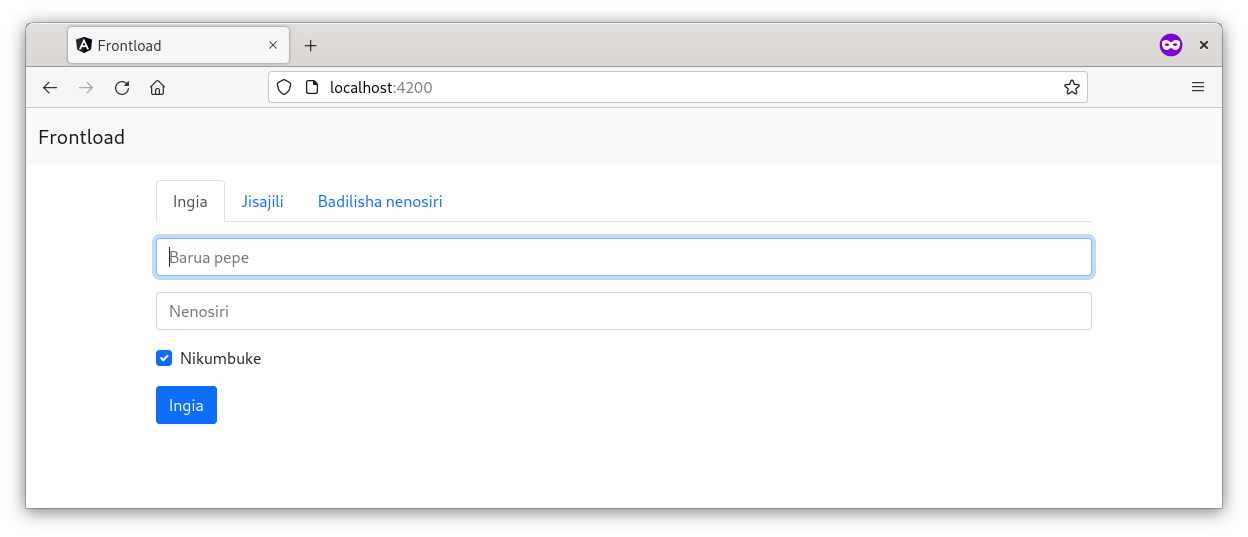
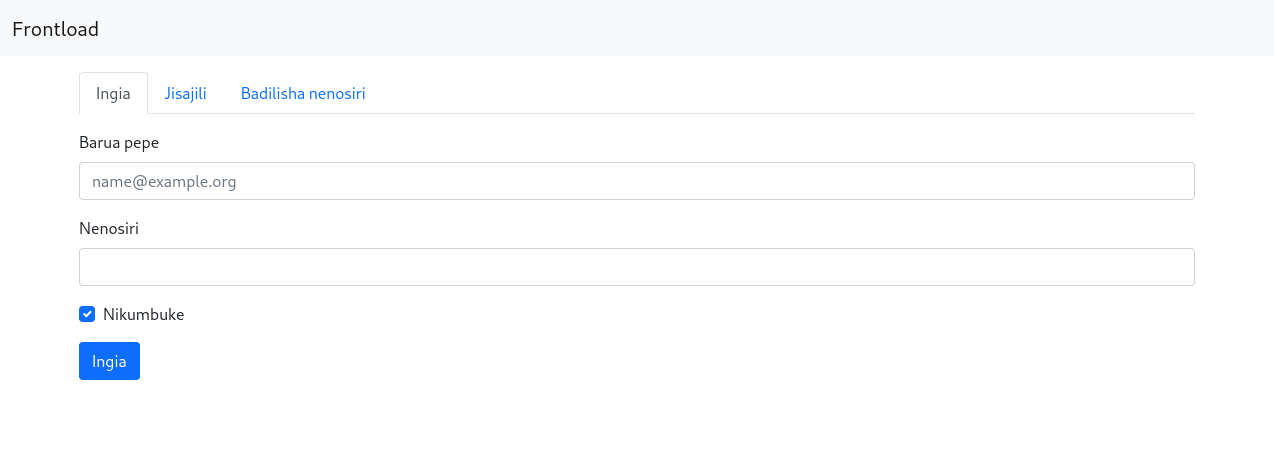
UI improvements (form fields)

diff --git a/src/app/components/password-form/password-form.component.html b/src/app/components/password-form/password-form.component.html
@@ -1,9 +1,11 @@
 <div #formElement class="form-group" *ngIf="password">
-    <input *ngIf="enforceReqs" [name]="controlName" [formControl]="password" type="password" class="form-control" class="form-control"
-        [placeholder]="placeHolder" [disabled]="disabled" aria-describedby="passwordHelp" required minlength="8">
-    <small *ngIf="enforceReqs" id="passwordHelp" class="form-text text-muted"i18n>Minimum 8 characters</small>
-    <input *ngIf="!enforceReqs" [name]="controlName" [formControl]="password" type="password" class="form-control" class="form-control"
-        [placeholder]="placeHolder" [disabled]="disabled" required>
+    <label for="passwordInput" class="form-label" i18n>{{label}}</label>
+    <input id="passwordInput" *ngIf="enforceReqs" [name]="controlName" [formControl]="password" type="password"
+        class="form-control" class="form-control" [disabled]="disabled" aria-describedby="passwordHelp" required
+        minlength="8">
+    <small *ngIf="enforceReqs" id="passwordHelp" class="form-text text-muted" i18n>Minimum 8 characters</small>
+    <input id="passwordInput" *ngIf="!enforceReqs" [name]="controlName" [formControl]="password" type="password"
+        class="form-control" class="form-control" [disabled]="disabled" required>
     <div class="invalid-feedback">
         <span i18n *ngIf="passwordErrorToShow() === 'required'">Password is required</span>
         <span i18n *ngIf="passwordErrorToShow() === 'minlength'">Password is too short</span>

diff --git a/src/app/pages/change-email/change-email.component.html b/src/app/pages/change-email/change-email.component.html
@@ -1,10 +1,13 @@
+<h2 i18n>Change Email</h2>
 <form [formGroup]="changeEmailForm" (ngSubmit)="changeEmail($event)">
     <div class="form-group">
-        <input formControlName="email" type="email" class="form-control" i18n-placeholder placeholder="New Email" [disabled]="loading" required>
+        <label for="emailInput" class="form-label" i18n>New Email</label>
+        <input id="emailInput" formControlName="email" type="email" class="form-control" placeholder="name@example.org"
+            [disabled]="loading" required>
         <div class="invalid-feedback" i18n>
             A valid email is required
         </div>
     </div>
-    <app-password-form i18n-placeHolder placeHolder="Current Password" [disabled]="loading"></app-password-form>
+    <app-password-form i18n-label label="Current Password" [disabled]="loading"></app-password-form>
     <button type="submit" class="btn btn-primary" [disabled]="loading" i18n>Change Email</button>
 </form>

diff --git a/src/app/pages/change-password/change-password.component.html b/src/app/pages/change-password/change-password.component.html
@@ -1,6 +1,7 @@
+<h2 i18n>Change Password</h2>
 <form [formGroup]="changePasswordForm" (ngSubmit)="changePassword($event)" class="needs-validation" novalidate>
-    <app-password-form i18n-placeHolder placeHolder="Current Password" [disabled]="loading"></app-password-form>
-    <app-password-form i18n-placeHolder placeHolder="New Password" [enforceReqs]="true" controlName="newPassword" [disabled]="loading"></app-password-form>
+    <app-password-form i18n-label label="Current Password" [disabled]="loading"></app-password-form>
+    <app-password-form i18n-label label="New Password" [enforceReqs]="true" controlName="newPassword" [disabled]="loading"></app-password-form>
     <div class="form-group form-check">
         <input type="checkbox" class="form-check-input" id="revokeAllCheck" formControlName="revokeRefreshTokens" [disabled]="loading">
         <label class="form-check-label" for="revokeAllCheck" i18n>Sign out everywhere else</label>

diff --git a/src/app/components/login/login.component.html b/src/app/components/login/login.component.html
@@ -1,7 +1,8 @@
 <form [formGroup]="loginForm" (ngSubmit)="login($event)">
     <div class="form-group">
-        <input formControlName="email" type="email" class="form-control" i18n-placeholder placeholder="Email" [disabled]="loading"
-            required>
+        <label for="emailInput" class="form-label" i18n>Email</label>
+        <input id="emailInput" formControlName="email" type="email" class="form-control" placeholder="name@example.org"
+            [disabled]="loading" required>
         <div class="invalid-feedback" i18n>
             A valid email is required
         </div>

diff --git a/src/app/components/register/register.component.html b/src/app/components/register/register.component.html
@@ -1,6 +1,8 @@
 <form [formGroup]="registerForm" (ngSubmit)="register($event)">
     <div class="form-group">
-        <input formControlName="email" type="email" class="form-control" i18n-placeholder placeholder="Email" [disabled]="loading" required>
+        <label for="emailInput" class="form-label" i18n>Email</label>
+        <input id="emailInput" formControlName="email" type="email" class="form-control" placeholder="name@example.org"
+            [disabled]="loading" required>
         <div class="invalid-feedback" i18n>
             A valid email is required
         </div>

diff --git a/src/app/components/forgot-password/forgot-password.component.html b/src/app/components/forgot-password/forgot-password.component.html
@@ -1,6 +1,7 @@
 <form [formGroup]="resetPasswordForm" (ngSubmit)="resetPassword($event)">
     <div class="form-group">
-        <input formControlName="email" type="email" class="form-control" i18n-placeholder placeholder="Email"
+        <label for="emailInput" class="form-label" i18n>Email</label>
+        <input id="emailInput" formControlName="email" type="email" class="form-control" placeholder="name@example.org"
             [disabled]="loading" required>
         <div class="invalid-feedback" i18n>
             A valid email is required

diff --git a/src/app/pages/reset-password/reset-password.component.html b/src/app/pages/reset-password/reset-password.component.html
@@ -1,5 +1,6 @@
+<h2 i18n>Reset Password</h2>
 <form [formGroup]="resetPasswordForm" (ngSubmit)="resetPassword($event)">
-    <app-password-form i18n-placeHolder placeHolder="New Password" [enforceReqs]="true" [disabled]="loading">
+    <app-password-form i18n-label label="New Password" [enforceReqs]="true" [disabled]="loading">
     </app-password-form>
     <button type="submit" class="btn btn-primary" [disabled]="loading" i18n>Change
         Password</button>

diff --git a/src/app/components/password-form/password-form.component.ts b/src/app/components/password-form/password-form.component.ts
@@ -9,7 +9,7 @@ import { AbstractControl, FormControl, FormGroup, FormGroupDirective, Validation
 export class PasswordFormComponent implements OnInit {
 
   @Input() disabled: boolean = false
-  @Input() placeHolder: string = $localize `Password`
+  @Input() label: string = $localize `Password`
   @Input() controlName: string = 'password'
   @Input() enforceReqs: boolean = false
 

diff --git a/src/styles.scss b/src/styles.scss
@@ -10,3 +10,7 @@ No manual toggle possible either */
 .form-group {
     @extend .mb-3;
 }
+
+h2 {
+    @extend .mb-4
+}

diff --git a/README.md b/README.md
@@ -55,6 +55,6 @@ Implementing new functionality in the application usually involves:
 
 ![Signup Page](./screenshots/5.png) Signup Page
 
-![Responsive UI (Mobile View)](./screenshots/6.png) Responsive UI (Mobile View)
+![Dark Mode](./screenshots/6.png) Dark Mode
 
-![Dark Mode](./screenshots/7.png) Dark Mode
+![Responsive UI (Mobile View)](./screenshots/7.png) Responsive UI (Mobile View)
